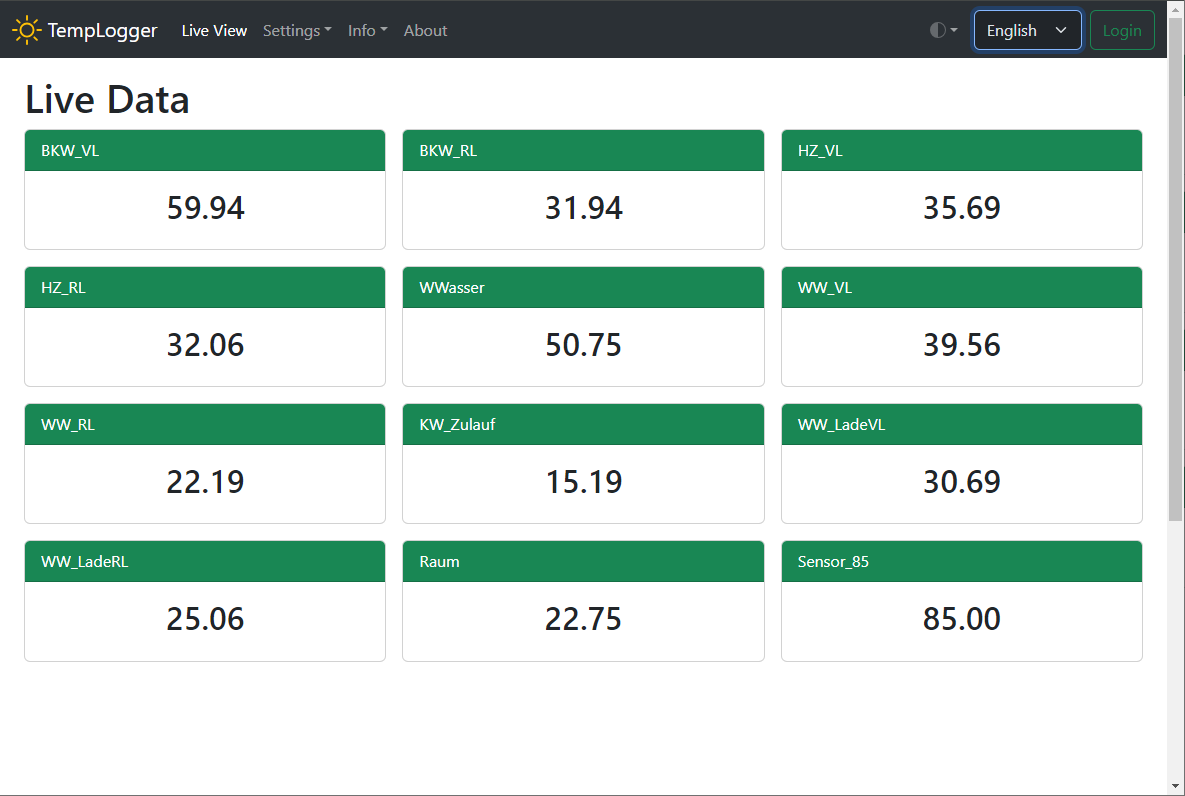
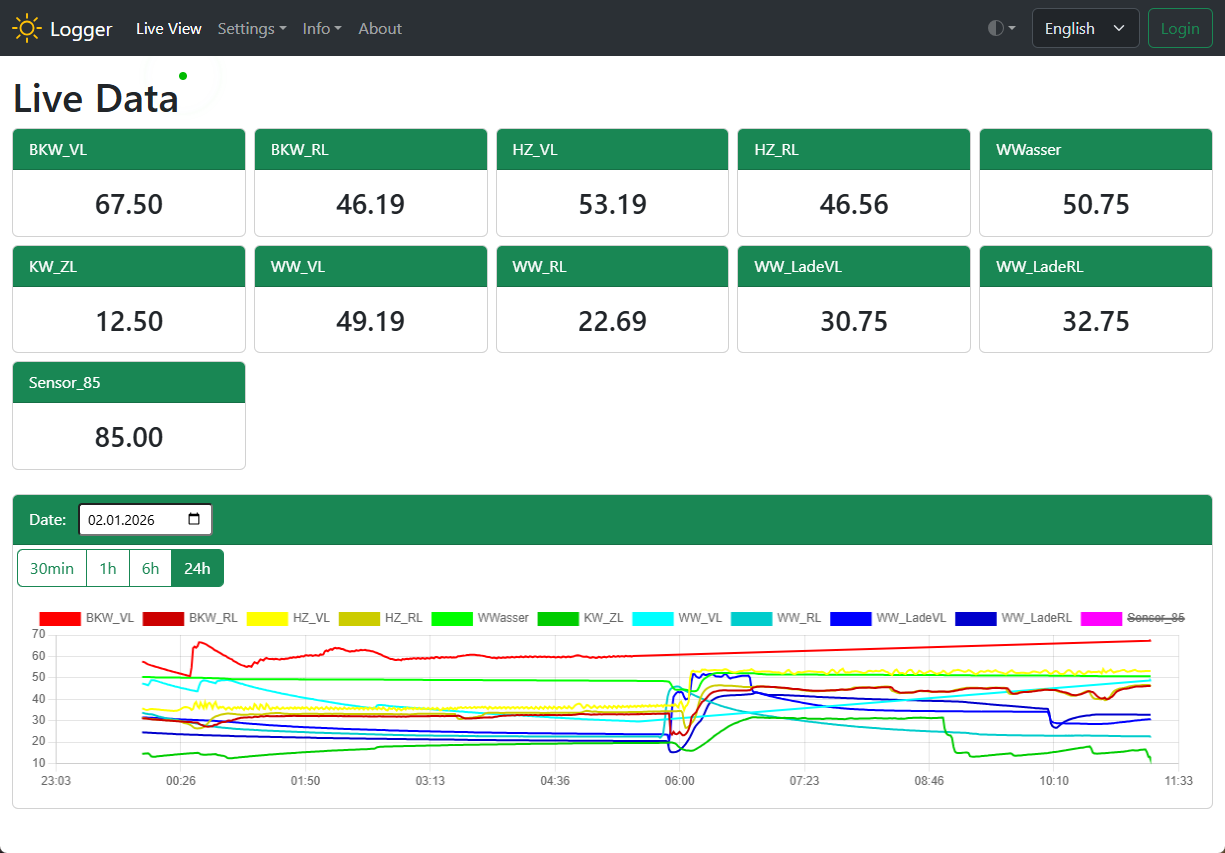
update documentation

diff --git a/README.md b/README.md
@@ -13,12 +13,11 @@ The project is licensed under an Open Source License ( GNU General Public Licens
 - Support for OLED displays
 - MQTT support with Home Assistant Auto Discovery
 - Data can be stored on SD cards
-- Data can be stored in Ram (4KByte) or PSRam (6MByte). The data will also survive a software board reset.
+- Data can be stored in Ram (4KByte) or PSRam (6MByte). The data will also survive a software board reset. This works very well up to 30 days. Sometimes the data is lost unexpectedly, 
 - Pins for sensors, display etc. are configurable
 - Online Debug Console
 - Compatible with the Android IoT Sensor app with which the temperature history can be displayed.
-- Support for ESP32 or ESP32-S3
-- Perhaps there will be a graph display in the frontend in the future.
+- Support for ESP32 or ESP32-S3 (an ESP32-S3 chip with PSRAM is recommended)
 
 ## Some Picture
 
@@ -30,7 +29,9 @@ The DS18B20 sensors are recognized automatically. It is possible to change the n
 
 **Next Features**
 
-- Simple or more complex view of the temperature curve
+- Export and import the data
+- Improve / bugfix data store in PSRam, maybe with error correction
+- Improve the graphical view
 
 ## Installation
 
